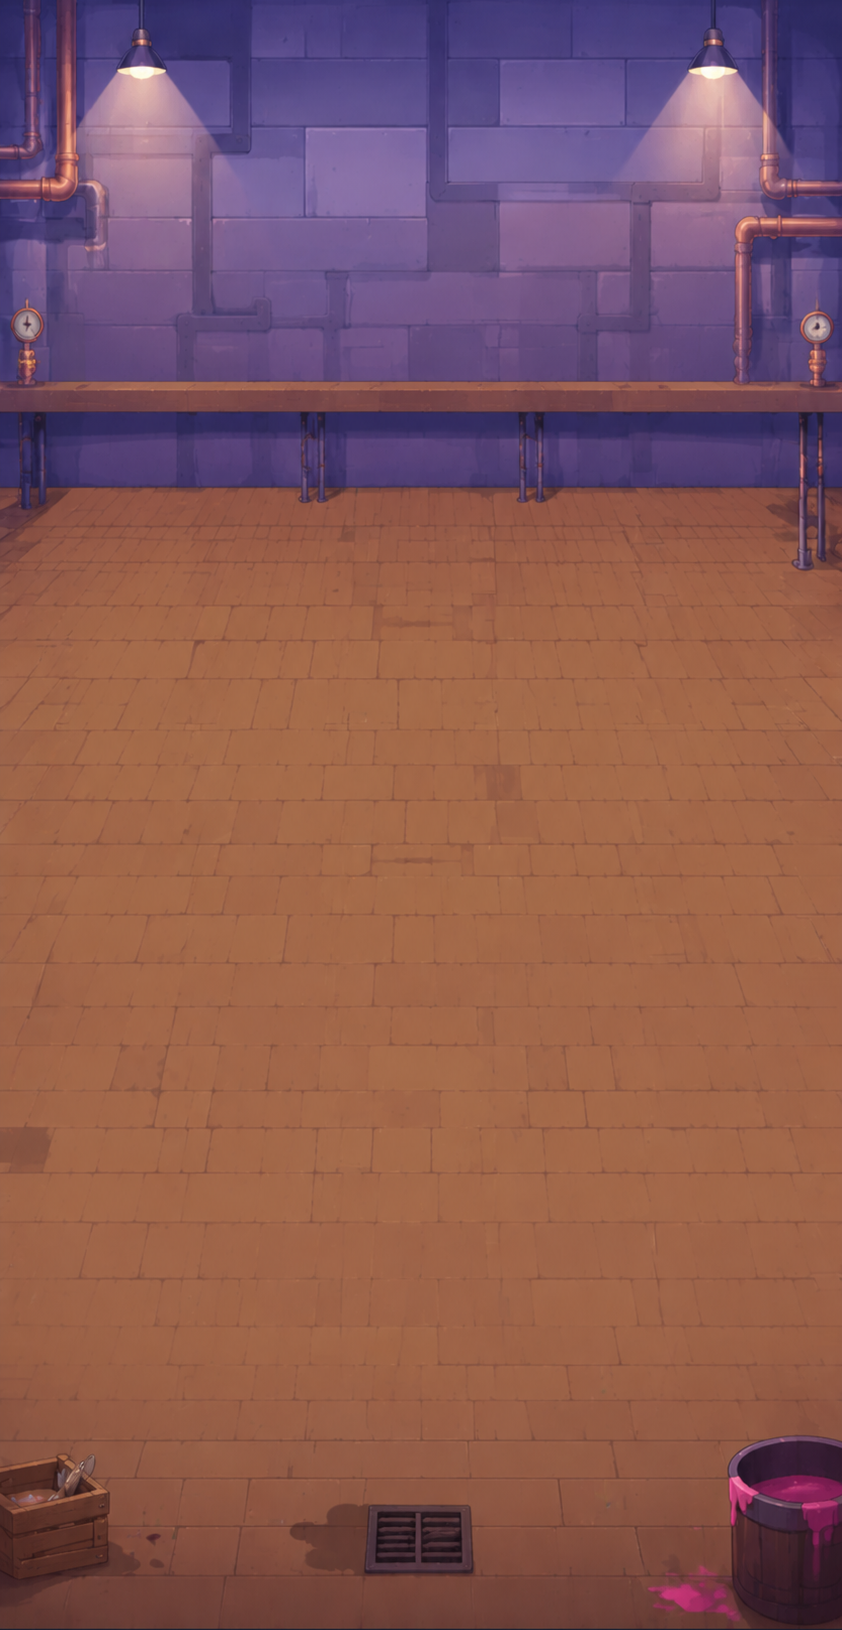
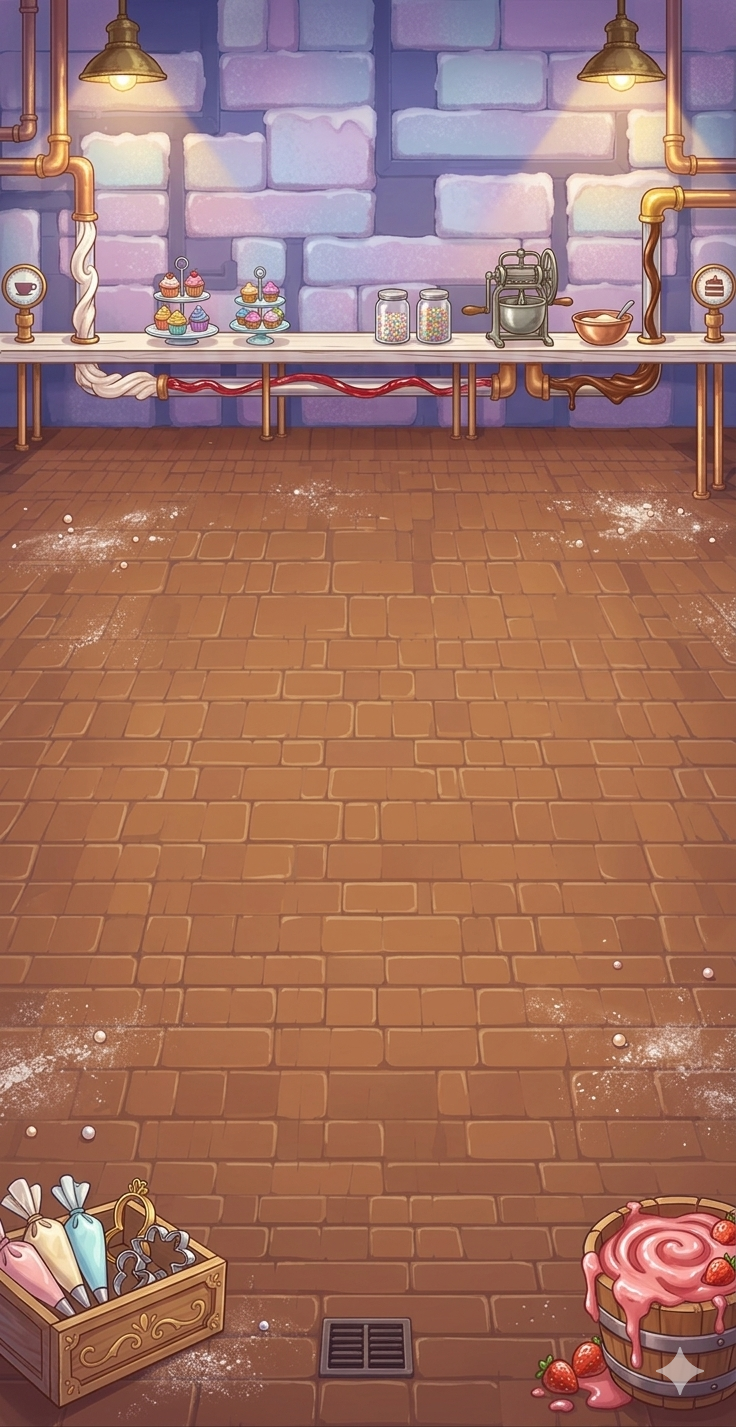
fix some bugs

diff --git a/lib/widgets/game_painter.dart b/lib/widgets/game_painter.dart
@@ -1,4 +1,5 @@
 import 'dart:math';
+import 'dart:typed_data';
 import 'dart:ui' as ui show Image;
 import 'package:flutter/material.dart';
 import '../game/game_config.dart';
@@ -186,12 +187,17 @@ class GamePainter extends CustomPainter {
         allowedTargets != null && !allowedTargets.contains(conv.id);
     final highlightPulse = 0.5 + 0.5 * sin(now * 0.008);
 
-    // 3D perspective: top (far) narrows, bottom (close) is full width
+    // 3D perspective: top (far) narrows, bottom (close) is full width.
+    // Outer belts also lean their tops toward the layout centre (X-axis depth).
     final perspDepth = GameConfig.perspDepth;
     final topRailW = GameConfig.railWidthTop;
     final botRailW = GameConfig.railWidthBottom;
-    final tlX = conv.x + perspDepth;
-    final trX = conv.x + conv.width - perspDepth;
+    final layoutCenterX = GameController.gameWidth / 2;
+    final beltCenterX = conv.x + conv.width / 2;
+    final xLean = (beltCenterX - layoutCenterX) *
+        GameConfig.conveyorPerspectiveXFactor;
+    final tlX = conv.x + perspDepth - xLean;
+    final trX = conv.x + conv.width - perspDepth - xLean;
     final blX = conv.x;
     final brX = conv.x + conv.width;
     final topY = conv.y;
@@ -268,6 +274,20 @@ class GamePainter extends CustomPainter {
     // 24px-period stripes.
     canvas.save();
     canvas.clipPath(bodyPath);
+    // Perspective shear: at topY the texture shifts left by xLean; at botY
+    // no shift. This makes the surface pattern follow the belt lean instead
+    // of being a flat rectangle that leaves uncovered corners on outer belts.
+    canvas.save();
+    if (xLean != 0.0) {
+      final shear = xLean / h;
+      final tx = -xLean * (conv.y + h) / h;
+      canvas.transform(Float64List.fromList([
+        1, 0, 0, 0,
+        shear, 1, 0, 0,
+        0, 0, 1, 0,
+        tx, 0, 0, 1,
+      ]));
+    }
     if (convImg != null) {
       final tileH = conv.width * (convImg.height / convImg.width);
       final scroll = conv.maintenance ? 0.0 : (offset % tileH);
@@ -291,6 +311,7 @@ class GamePainter extends CustomPainter {
         canvas.drawRRect(stripeRect, stripePaint);
       }
     }
+    canvas.restore();
 
     // Resize flash overlay
     if (conv.resizing) {
@@ -326,39 +347,56 @@ class GamePainter extends CustomPainter {
       _drawDiagonalStripes(canvas, Rect.fromLTWH(conv.x, conv.y, conv.width, h),
           opacity: 0.35 + flash * 0.35);
 
-      // Center label
-      final labelHeight = min(160.0, h - 20);
-      final labelTop = conv.y + h / 2 - min(80.0, h / 2 - 10);
+      // The label and text must be centred on the belt's *visual* centre at
+      // mid-height, which shifts by xLean relative to the geometric centre:
+      //   visMidX = conv.x + w/2 − xLean/2   (xLean*(1−t) at t=0.5)
+      //
+      // Maximum safe half-width so the label rectangle stays inside the
+      // trapezoid at its tightest row (the top of the label):
+      //   safeHalf = (w−p)/2 − labelH*(p+|xLean|)/(2h)
+      // where p = perspDepth.  Derived by solving right_x(tTopLabel) −
+      // visMidX ≥ labelW/2 for the outer belt corner constraint.
+      final visMidX = conv.x + conv.width / 2 - xLean / 2;
+      final labelH = min(h - 16.0, 160.0);
+      final safeHalf = (conv.width - perspDepth) / 2 -
+          labelH * (perspDepth + xLean.abs()) / (2 * h);
+      final labelW = (safeHalf * 2 * 0.88).clamp(16.0, 44.0);
+      final labelTop = conv.y + h / 2 - labelH / 2;
       final labelRect = RRect.fromRectAndRadius(
-        Rect.fromLTWH(conv.x + conv.width / 2 - 20, labelTop, 40, labelHeight),
+        Rect.fromLTWH(visMidX - labelW / 2, labelTop, labelW, labelH),
         const Radius.circular(4),
       );
       canvas.drawRRect(
           labelRect, Paint()..color = const Color(0xFF0F172A).withValues(alpha: 0.85));
 
-      if (h > 120) {
-        // "MAINTENANCE" text, rotated 90° counterclockwise
+      if (h > 60) {
+        // fontSize → visual width after rotation; must fit in labelW.
+        // labelH / 7.5 ≈ 88 % fill of visual height with "MAINTENANCE".
+        final fontSize = (labelH / 7.5).clamp(6.0, labelW * 0.75);
         canvas.save();
-        canvas.translate(conv.x + conv.width / 2, conv.y + h / 2);
+        canvas.translate(visMidX, conv.y + h / 2);
         canvas.rotate(-pi / 2);
         _drawText(canvas, 'MAINTENANCE', 0, 0,
             color: const Color(0xFFFBBF24),
-            fontSize: 14,
+            fontSize: fontSize,
             fontWeight: FontWeight.bold,
-            letterSpacing: 2,
+            letterSpacing: 1,
             align: TextAlign.center,
             baselineCenter: true);
         canvas.restore();
       }
 
-      // Pending-direction badges at both ends
+      // Pending-direction badges at both ends — also use visMidX so they
+      // sit on the visible belt centre, not the geometric centre.
       for (final yPos in [conv.y + 20, conv.y + h - 20]) {
+        final badgeT = (yPos - conv.y) / h;
+        final badgeX = conv.x + conv.width / 2 - xLean * (1 - badgeT);
         canvas.drawCircle(
-            Offset(conv.x + conv.width / 2, yPos),
+            Offset(badgeX, yPos),
             10,
             Paint()
               ..color = const Color(0xFF0F172A).withValues(alpha: 0.9));
-        _drawText(canvas, pendingArrow, conv.x + conv.width / 2, yPos,
+        _drawText(canvas, pendingArrow, badgeX, yPos,
             color: const Color(0xFFFBBF24),
             fontSize: 14,
             fontWeight: FontWeight.bold,
@@ -374,7 +412,9 @@ class GamePainter extends CustomPainter {
     if (slots != null && slots.containsKey(conv.id)) {
       final ghostY = slots[conv.id]!;
       const ghostSize = GameController.boxSize;
-      final ghostX = conv.x + (conv.width - ghostSize) / 2;
+      final ghostBeltT = ((ghostY + ghostSize / 2 - conv.y) / h).clamp(0.0, 1.0);
+      final ghostLeanX = -xLean * (1 - ghostBeltT);
+      final ghostX = conv.x + (conv.width - ghostSize) / 2 + ghostLeanX;
       final draggedBox =
           game.boxes.where((b) => b.id == game.draggedBoxId).firstOrNull;
       final fillColor = draggedBox?.color.bg ?? Colors.white;
@@ -490,7 +530,11 @@ class GamePainter extends CustomPainter {
         isDown ? 1.0 : (conv.width - 2 * perspDepth) / conv.width;
     final gateW = (conv.width + 6) * gatePerspScale;
     final gateH = GameConfig.gateSpriteHeight * gatePerspScale;
-    final gateX = conv.x + conv.width / 2 - gateW / 2;
+    // For upward conveyors the gate sits at the top (far) end of the belt, which
+    // is horizontally shifted by xLean — centre on (tlX+trX)/2 not conv.x+w/2.
+    final gateX = isDown
+        ? conv.x + conv.width / 2 - gateW / 2
+        : conv.x + conv.width / 2 - xLean - gateW / 2;
     final scaledGateY =
         isDown ? gateY : conv.y - GameController.gateOffset - gateH;
     final gateRect = Rect.fromLTWH(gateX, scaledGateY, gateW, gateH);
@@ -630,15 +674,21 @@ class GamePainter extends CustomPainter {
       opacity *= pose.opacity;
     }
 
-    // Perspective scale: boxes near the top (far) appear smaller
+    // Perspective scale + lean: boxes near the top (far) appear smaller and
+    // are shifted horizontally to match the belt shear applied to the texture.
     double perspScale = 1.0;
+    double leanX = 0.0;
     if (!isDragged && !isThrown && conv != null) {
       final convH = game.getCurrentHeight(conv, game.currentTime);
-      final beltT = ((box.y + box.size / 2 - conv.y) / convH).clamp(0.0, 1.0);
+      final boxCenterY = box.y + box.size / 2;
+      final beltT = ((boxCenterY - conv.y) / convH).clamp(0.0, 1.0);
       perspScale = (conv.width - 2 * GameConfig.perspDepth * (1 - beltT)) / conv.width;
+      final xLean = (conv.x + conv.width / 2 - GameController.gameWidth / 2) *
+          GameConfig.conveyorPerspectiveXFactor;
+      leanX = -xLean * (1 - beltT); // 0 at bottom rail, -xLean at top rail
     }
 
-    final cx = box.x + box.size / 2;
+    final cx = box.x + leanX + box.size / 2;
     final cy = box.y + box.size / 2 + liftY;
 
     // Floor shadow — stays at unlifted Y so the lift reads as height.
@@ -711,10 +761,10 @@ class GamePainter extends CustomPainter {
       _drawSprite(
           canvas,
           boxImg,
-          Rect.fromLTWH(box.x, box.y, box.size, box.size),
+          Rect.fromLTWH(box.x + leanX, box.y, box.size, box.size),
           opacity: opacity);
     } else {
-      _drawProceduralBox(canvas, box, opacity);
+      _drawProceduralBox(canvas, box, opacity, xOffset: leanX);
     }
     canvas.restore();
 
@@ -743,32 +793,34 @@ class GamePainter extends CustomPainter {
       )..layout();
       tp.paint(
         canvas,
-        Offset(box.x + (box.size - tp.width) / 2, box.y + (box.size - tp.height) / 2),
+        Offset(box.x + leanX + (box.size - tp.width) / 2, box.y + (box.size - tp.height) / 2),
       );
     }
   }
 
-  void _drawProceduralBox(Canvas canvas, Box box, double opacity) {
+  void _drawProceduralBox(Canvas canvas, Box box, double opacity,
+      {double xOffset = 0.0}) {
+    final x = box.x + xOffset;
     canvas.drawRRect(
       RRect.fromRectAndRadius(
-          Rect.fromLTWH(box.x, box.y, box.size, box.size),
+          Rect.fromLTWH(x, box.y, box.size, box.size),
           const Radius.circular(6)),
       Paint()..color = box.color.dark.withValues(alpha: opacity),
     );
     canvas.drawRRect(
       RRect.fromRectAndRadius(
-          Rect.fromLTWH(box.x + 2, box.y + 2, box.size - 4, box.size - 4),
+          Rect.fromLTWH(x + 2, box.y + 2, box.size - 4, box.size - 4),
           const Radius.circular(5)),
       Paint()..color = box.color.bg.withValues(alpha: opacity),
     );
     canvas.drawRRect(
       RRect.fromRectAndRadius(
-          Rect.fromLTWH(box.x + 4, box.y + 4, box.size - 8, 6),
+          Rect.fromLTWH(x + 4, box.y + 4, box.size - 8, 6),
           const Radius.circular(3)),
       Paint()..color = box.color.light.withValues(alpha: opacity * 0.7),
     );
     canvas.drawCircle(
-      Offset(box.x + box.size / 2, box.y + box.size / 2 + 2),
+      Offset(x + box.size / 2, box.y + box.size / 2 + 2),
       6,
       Paint()..color = box.color.light.withValues(alpha: opacity * 0.9),
     );

diff --git a/lib/screens/game_screen.dart b/lib/screens/game_screen.dart
@@ -125,6 +125,58 @@ class _GameScreenState extends State<GameScreen>
                   },
                 ),
               ),
+              // --- Debug: maintenance toggle per conveyor ---
+              Positioned(
+                bottom: 8,
+                left: 8,
+                child: AnimatedBuilder(
+                  animation: _game,
+                  builder: (context, _) {
+                    if (!_game.debugSlots) return const SizedBox.shrink();
+                    return Row(
+                      mainAxisSize: MainAxisSize.min,
+                      children: [
+                        for (int i = 0; i < _game.conveyors.length; i++)
+                          GestureDetector(
+                            onTap: () => _game.debugToggleMaintenance(
+                                _game.conveyors[i].id),
+                            behavior: HitTestBehavior.opaque,
+                            child: Container(
+                              width: 28,
+                              height: 28,
+                              margin: const EdgeInsets.only(right: 4),
+                              decoration: BoxDecoration(
+                                color: _game.conveyors[i].maintenance
+                                    ? const Color(0xFFFBBF24)
+                                        .withValues(alpha: 0.25)
+                                    : const Color(0xFF1E293B),
+                                borderRadius: BorderRadius.circular(6),
+                                border: Border.all(
+                                  color: _game.conveyors[i].maintenance
+                                      ? const Color(0xFFFBBF24)
+                                      : const Color(0xFF475569),
+                                  width: 1,
+                                ),
+                              ),
+                              child: Center(
+                                child: Text(
+                                  'M${i + 1}',
+                                  style: TextStyle(
+                                    color: _game.conveyors[i].maintenance
+                                        ? const Color(0xFFFBBF24)
+                                        : const Color(0xFF475569),
+                                    fontSize: 9,
+                                    fontWeight: FontWeight.bold,
+                                  ),
+                                ),
+                              ),
+                            ),
+                          ),
+                      ],
+                    );
+                  },
+                ),
+              ),
               // --- Debug: stop conveyors (visible only when debug is on) ---
               Positioned(
                 bottom: 8,

diff --git a/lib/game/game_controller.dart b/lib/game/game_controller.dart
@@ -69,6 +69,26 @@ class GameController extends ChangeNotifier {
     if (debugPaused) _debugFreezeTime = _lastFrameTime;
     notifyListeners();
   }
+
+  void debugToggleMaintenance(int conveyorId) {
+    final conv = _findConveyor(conveyorId);
+    if (conv == null) return;
+    if (conv.maintenance) {
+      conv.direction = conv.pendingDirection ?? conv.direction;
+      conv.maintenance = false;
+      conv.pendingDirection = null;
+      conv.maintenanceEnd = 0;
+    } else {
+      conv.pendingDirection = conv.direction == ConveyorDirection.down
+          ? ConveyorDirection.up
+          : ConveyorDirection.down;
+      conv.maintenance = true;
+      // Use maxFinite so _endMaintenance timer never fires; only toggled off manually.
+      conv.maintenanceEnd = double.maxFinite;
+      boxes.removeWhere((b) => b.conveyorId == conv.id && b.id != draggedBoxId);
+    }
+    notifyListeners();
+  }
   List<Box> boxes = [];
   List<Conveyor> conveyors = [];
   List<FallingBox> fallingBoxes = [];

diff --git a/lib/game/game_config.dart b/lib/game/game_config.dart
@@ -38,6 +38,12 @@ class GameConfig {
   static const double railWidthTop = 1.0;
   static const double railWidthBottom = 5.5;
 
+  // ── Conveyor layout perspective ──────────────────────────────────────────
+  // Top of each belt leans toward the layout centre by
+  //   (beltCenterX − layoutCenterX) × factor  pixels.
+  // 0 = no lean; 0.15 ≈ 20 px for the outermost belt (132 px from centre).
+  static const double conveyorPerspectiveXFactor = 0.15;
+
   // ── Box spawn frequency ──────────────────────────────────────────────────
   // Interval between spawns on a single belt at level 1 (ms).
   // Shrinks by 200 ms per level, bottoms out at spawnIntervalMin.